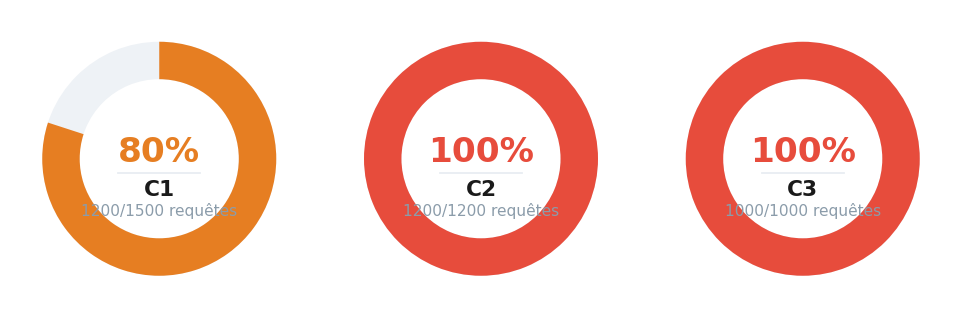
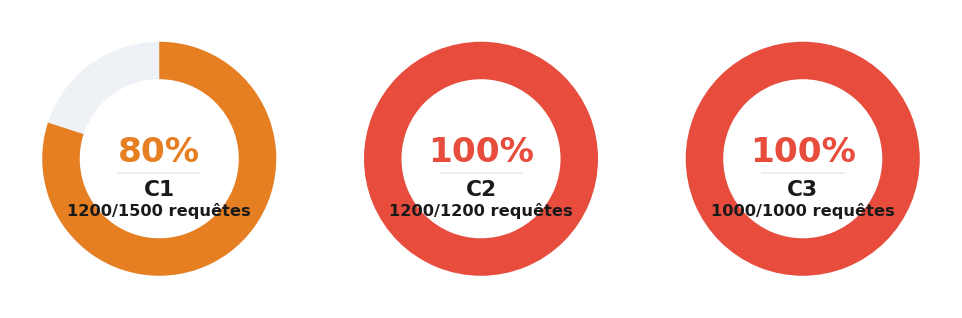
fix: améliorer la lisibilité du texte détail des jauges circulaires

Changed region(s): [[0.0624, 0.6226, 0.2807, 0.6792], [0.7173, 0.6226, 0.9356, 0.6792], [0.4054, 0.6226, 0.5925, 0.6792]]

diff --git a/visualization/charts.py b/visualization/charts.py
@@ -247,7 +247,7 @@ def _draw_donut(ax, pct, label_centre, label_bas,
     if detail:
         ax.text(0, -0.44, detail,
                 ha='center', va='center',
-                fontsize=8.5, color=TICK_COLOR,
+                fontsize=9, fontweight='semibold', color=TITLE_COLOR,
                 fontfamily=FONT, zorder=4)
 
     ax.set_xlim(-1.25, 1.25)
